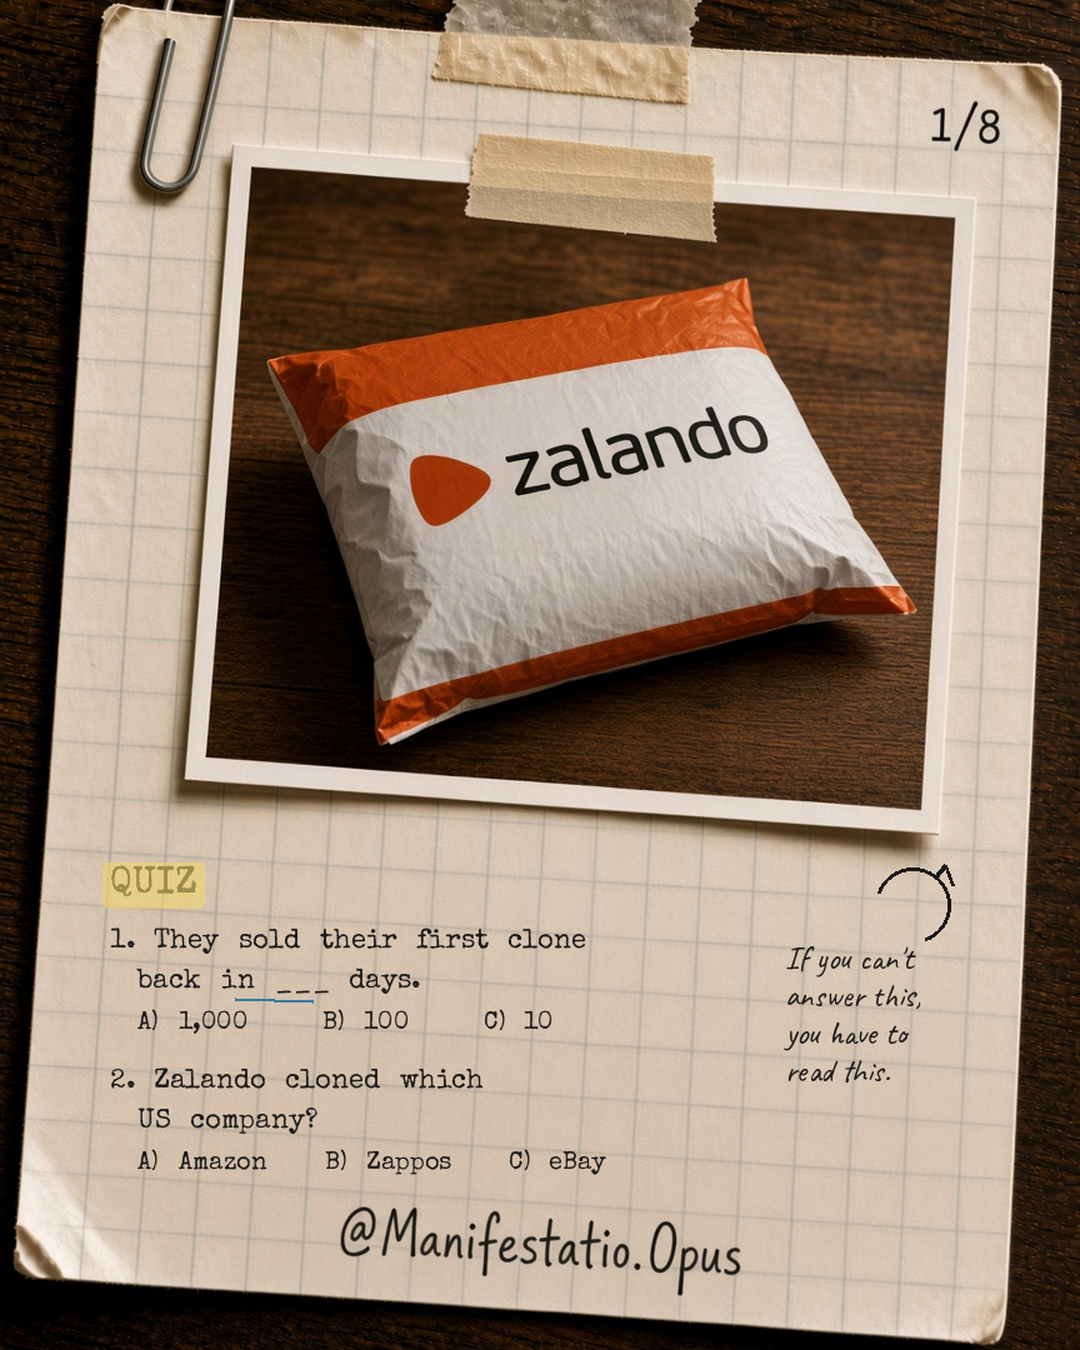
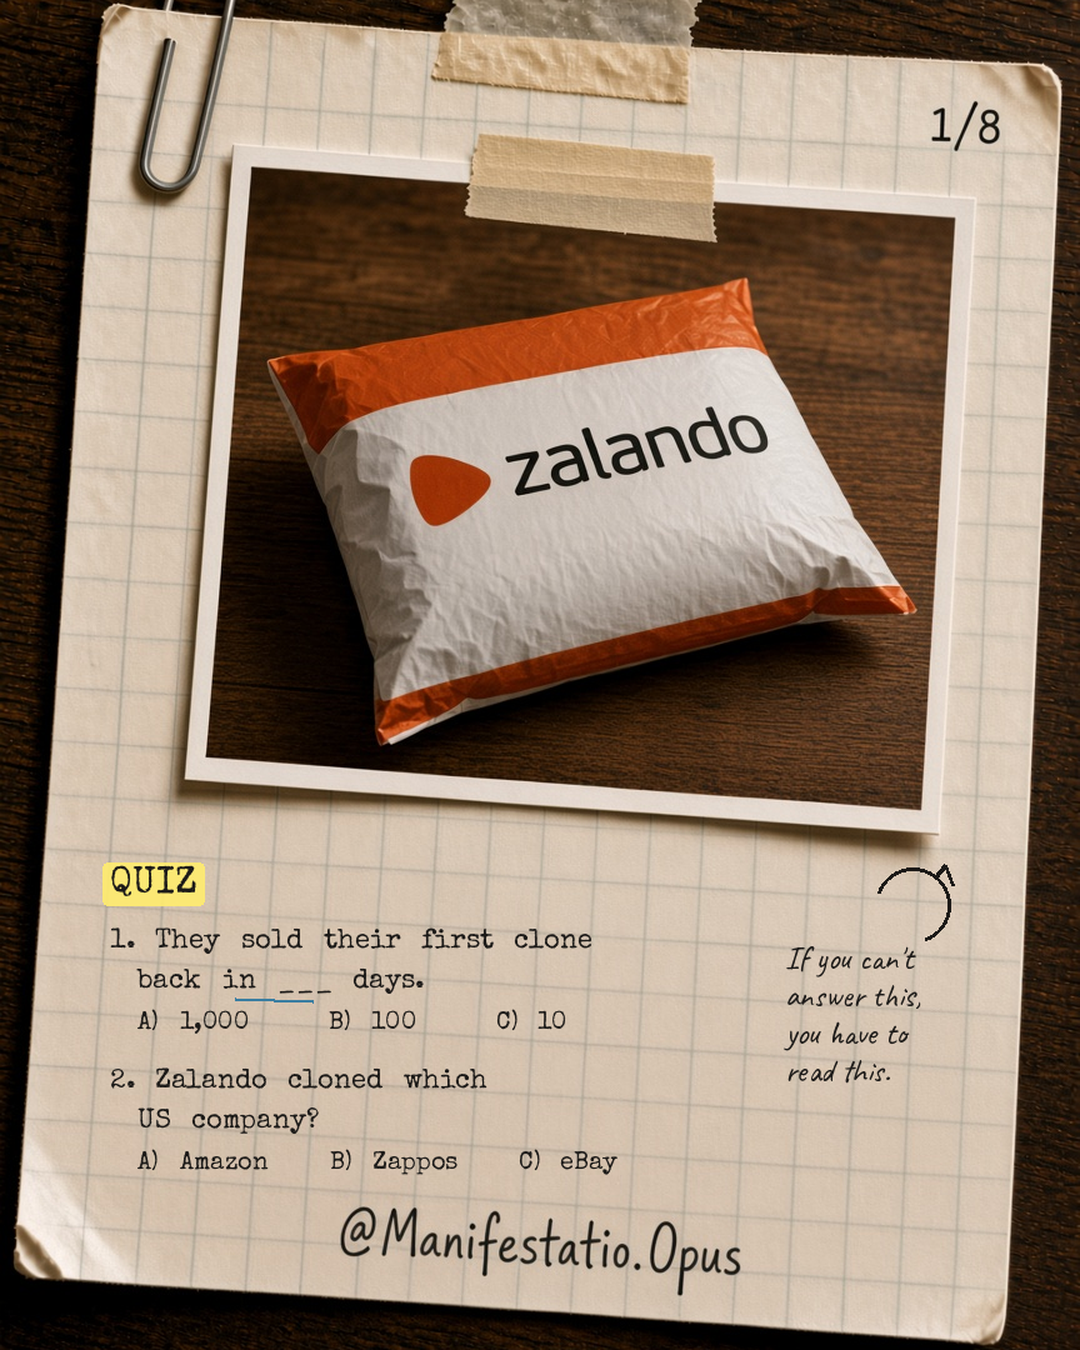
Lock highlighter behind full-black typewriter ink
Yellow marks now brighten the paper first. Letters stay full black, matching the Anonymous inspectors. reference. Overlay helper is the morning compose path.

diff --git a/manifestatio-opus/compose/overlay.py b/manifestatio-opus/compose/overlay.py
@@ -1,0 +1,114 @@
+"""Typewriter overlay for Manifestatio.Opus slides.
+
+Highlights brighten the paper first. Ink is always drawn last, full black.
+Never composite a translucent color over letters.
+"""
+
+from pathlib import Path
+
+from PIL import Image, ImageDraw, ImageFont
+
+FONT_PATH = "/tmp/fonts/SpecialElite-Regular.ttf"
+HAND_PATH = "/tmp/fonts/Caveat-Regular.ttf"
+
+# Bright highlighter on the paper, matching identity/highlight-reference.jpg
+YELLOW_PAPER = (255, 236, 110, 230)
+GREEN_PAPER = (186, 210, 140, 200)
+INK = (28, 26, 24, 255)
+BLUE = (59, 126, 161, 255)
+RED = (196, 69, 54, 255)
+GREEN = (122, 158, 92, 255)
+WORD_GAP = 10
+
+
+def font(size, path=FONT_PATH):
+    return ImageFont.truetype(path, size)
+
+
+def hand_font(size):
+    path = HAND_PATH if Path(HAND_PATH).exists() else FONT_PATH
+    return ImageFont.truetype(path, size)
+
+
+def measure(draw, text, fnt):
+    box = draw.textbbox((0, 0), text, font=fnt)
+    return box[2] - box[0], box[3] - box[1]
+
+
+def line_width(draw, text, fnt, extra_gap=WORD_GAP):
+    w = 0
+    first = True
+    for word in text.split(" "):
+        if not first:
+            sw, _ = measure(draw, " ", fnt)
+            w += sw + extra_gap
+        ww, _ = measure(draw, word, fnt)
+        w += ww
+        first = False
+    return w, measure(draw, "Hg", fnt)[1]
+
+
+def paint_highlight(img, xy, w, h, color=YELLOW_PAPER, pad=6):
+    """Brighten the paper behind a phrase. Call this before drawing ink."""
+    x, y = xy
+    layer = Image.new("RGBA", img.size, (0, 0, 0, 0))
+    ImageDraw.Draw(layer).rounded_rectangle(
+        [x - pad, y - pad + 4, x + w + pad, y + h + pad - 2],
+        radius=4,
+        fill=color,
+    )
+    base = img.convert("RGBA")
+    img.paste(Image.alpha_composite(base, layer))
+
+
+def draw_words(draw, text, xy, fnt, fill=INK, extra_gap=WORD_GAP):
+    x, y = xy
+    first = True
+    for word in text.split(" "):
+        if not first:
+            sw, _ = measure(draw, " ", fnt)
+            x += sw + extra_gap
+        draw.text((x, y), word, font=fnt, fill=fill)
+        ww, _ = measure(draw, word, fnt)
+        x += ww
+        first = False
+    return x - xy[0], measure(draw, "Hg", fnt)[1]
+
+
+def underline(draw, xy, w, color=BLUE, thickness=3, y_off=26):
+    x, y = xy
+    draw.line([(x, y + y_off), (x + w, y + y_off + 2)], fill=color, width=thickness)
+
+
+def circle_words(draw, xy, w, h, color=BLUE):
+    x, y = xy
+    draw.ellipse([x - 10, y - 8, x + w + 12, y + h + 10], outline=color, width=3)
+
+
+def draw_line(img, draw, text, xy, size, marks=None, extra_gap=WORD_GAP):
+    """Measure, paint paper marks, then stamp full-black typewriter ink."""
+    marks = marks or {}
+    fnt = font(size)
+    tw, th = line_width(draw, text, fnt, extra_gap=extra_gap)
+    if "highlight" in marks:
+        paint_highlight(img, xy, tw, th, marks.get("color", YELLOW_PAPER))
+        draw = ImageDraw.Draw(img)
+    if "underline" in marks:
+        underline(draw, xy, tw, marks.get("ucolor", BLUE), y_off=th + 4)
+    if "green_underline" in marks:
+        underline(draw, xy, tw, GREEN, thickness=4, y_off=th + 4)
+    if "red_underline" in marks:
+        underline(draw, xy, tw, RED, thickness=3, y_off=th + 4)
+    if "circle" in marks:
+        circle_words(draw, xy, tw, th, marks.get("ucolor", BLUE))
+    draw_words(draw, text, xy, fnt, extra_gap=extra_gap)
+    return tw, th
+
+
+def crop_4x5(img, size=(1080, 1350)):
+    target_h = int(round(img.width / 0.8))
+    extra = img.height - target_h
+    top = extra // 2
+    return img.crop((0, top, img.width, top + target_h)).resize(
+        size, Image.Resampling.LANCZOS
+    )

diff --git a/manifestatio-opus/compose/__init__.py b/manifestatio-opus/compose/__init__.py
@@ -1,0 +1,1 @@
+from .overlay import crop_4x5, draw_line, draw_words, paint_highlight

diff --git a/manifestatio-opus/IDENTITY.md b/manifestatio-opus/IDENTITY.md
@@ -49,7 +49,11 @@ Locked to the Michelin carousel in `week-2026-09-28/01-michelin/slides/`. Match 
 | Blue | `#3B7EA1` | numbers / action |
 | Green | `#7A9E5C` | money / growth |
 
-Marks are slightly imperfect and overlap the text. Mark **1–2 phrases only** per slide.
+Marks are slightly imperfect. Mark **1–2 phrases only** per slide.
+
+**Highlighter lock:** the mark brightens the paper behind the letters. Typewriter ink stays full black on top. Never wash, tint, or fade the letters. If a highlight makes the word look grey, the mark is on the wrong layer.
+
+Correct effect: `identity/highlight-reference.jpg` (Anonymous inspectors.). Paint the yellow stroke on the paper first, then stamp the ink. Same rule for green money highlights.
 
 ## Photo print rule
 
@@ -111,4 +115,5 @@ Cream grid on walnut + `@Manifestatio.Opus` + `N/8` + one tactile object + one p
 - [ ] Quiz answers appear later in the carousel; no question leaks another question's answer
 - [ ] Proper nouns match the brief (proofread lookalikes)
 - [ ] Handwritten lock-in: `If you can't answer this, you have to read this.`
+- [ ] Highlights brighten the paper; letters stay full black
 - [ ] Auto-posted to Instagram via Composio after generation

diff --git a/manifestatio-opus/TIMER.md b/manifestatio-opus/TIMER.md
@@ -7,7 +7,7 @@ You are the Manifestatio.Opus content factory in nikkolasedi/CursorStorage. Neve
 
 It is 06:00 Europe/Berlin. Read manifestatio-opus/PIPELINE.md, IDENTITY.md, and week-2026-09-28/QUEUE.md.
 
-Generate TODAY's 8-slide 1080x1350 carousel from that day's brief.md. Photo of the real brand/product on EVERY slide (glossy white-border print). Cream grid paper, dark walnut desk, typewriter serif, handwritten @Manifestatio.Opus, N/8. Yellow insight, red emphasis, blue numbers, green money. No faces. No invented stats.
+Generate TODAY's 8-slide 1080x1350 carousel from that day's brief.md. Photo of the real brand/product on EVERY slide (glossy white-border print). Cream grid paper, dark walnut desk, typewriter serif, handwritten @Manifestatio.Opus, N/8. Yellow insight, red emphasis, blue numbers, green money. Highlights brighten the paper; ink stays full black. No faces. No invented stats.
 
 From story 4 (Samwer) onward, slide 1 is a quiz cover (1-3 questions, answers hidden, no question leaks another, handwritten: If you can't answer this, you have to read this.). McDonald's (story 3) still uses the hook cover. Proofread proper nouns. Match 04-samwer/quiz-cover-example/.
 

diff --git a/manifestatio-opus/PIPELINE.md b/manifestatio-opus/PIPELINE.md
@@ -17,12 +17,13 @@ From **story 4 (Samwer) onward**, slide 1 is a **quiz cover** (IDENTITY.md). McD
 
 ## Generate slides
 
-Use the Cursor `GenerateImage` tool.
+Use the Cursor `GenerateImage` tool, then overlay exact typewriter copy with `manifestatio-opus/compose/overlay.py`.
 
 - Aspect ratio: `3:4` (will crop to 1080x1350).
 - `reference_image_paths`: Michelin slides `01-michelin/slides/01.jpg` through `08.jpg` so paper, desk, light, and marks stay identical.
 - One image per slide. Keep the same paper, wood, lighting, typewriter look as Michelin.
 - Filename: `0N.png` then export JPEG.
+- Highlights: paint the marker on the paper first, then stamp full-black ink. Never composite a translucent yellow over letters. Match `identity/highlight-reference.jpg`.
 
 After each image:
 

diff --git a/manifestatio-opus/prompts/image-generation.md b/manifestatio-opus/prompts/image-generation.md
@@ -19,3 +19,5 @@ Then append the slide-specific text and marks from that day's `brief.md`.
 Cover slides: the taped photo is ~40% of the sheet. Other slides: smaller print is fine, still clearly a photograph of the real product.
 
 From story 4 onward, slide 1 is a quiz cover. Overlay typewriter questions after generating a blank-lower-half base (see `04-samwer/quiz-cover-example/`). Handwritten lock-in: `If you can't answer this, you have to read this.` Proofread names. No question may leak another question's answer.
+
+When overlaying marks, use `manifestatio-opus/compose/overlay.py`. Highlight the paper, then draw ink. Letters must stay full black. Do not fade text through a yellow overlay. Reference: `identity/highlight-reference.jpg`.

diff --git a/manifestatio-opus/README.md b/manifestatio-opus/README.md
@@ -6,6 +6,8 @@ Format: 8-slide 4:5 carousel, **1080x1350**, one story per day.
 | File | What it is |
 | --- | --- |
 | [IDENTITY.md](IDENTITY.md) | Locked visual identity, marker colors, layout rules |
+| [identity/highlight-reference.jpg](identity/highlight-reference.jpg) | Correct highlighter: bright paper, full-black ink |
+| [compose/overlay.py](compose/overlay.py) | Typewriter overlay. Paint marks on the paper, then ink. |
 | [PIPELINE.md](PIPELINE.md) | How to generate a morning carousel and post it |
 | [week-2026-09-28/QUEUE.md](week-2026-09-28/QUEUE.md) | This week's 7 stories and status |
 
